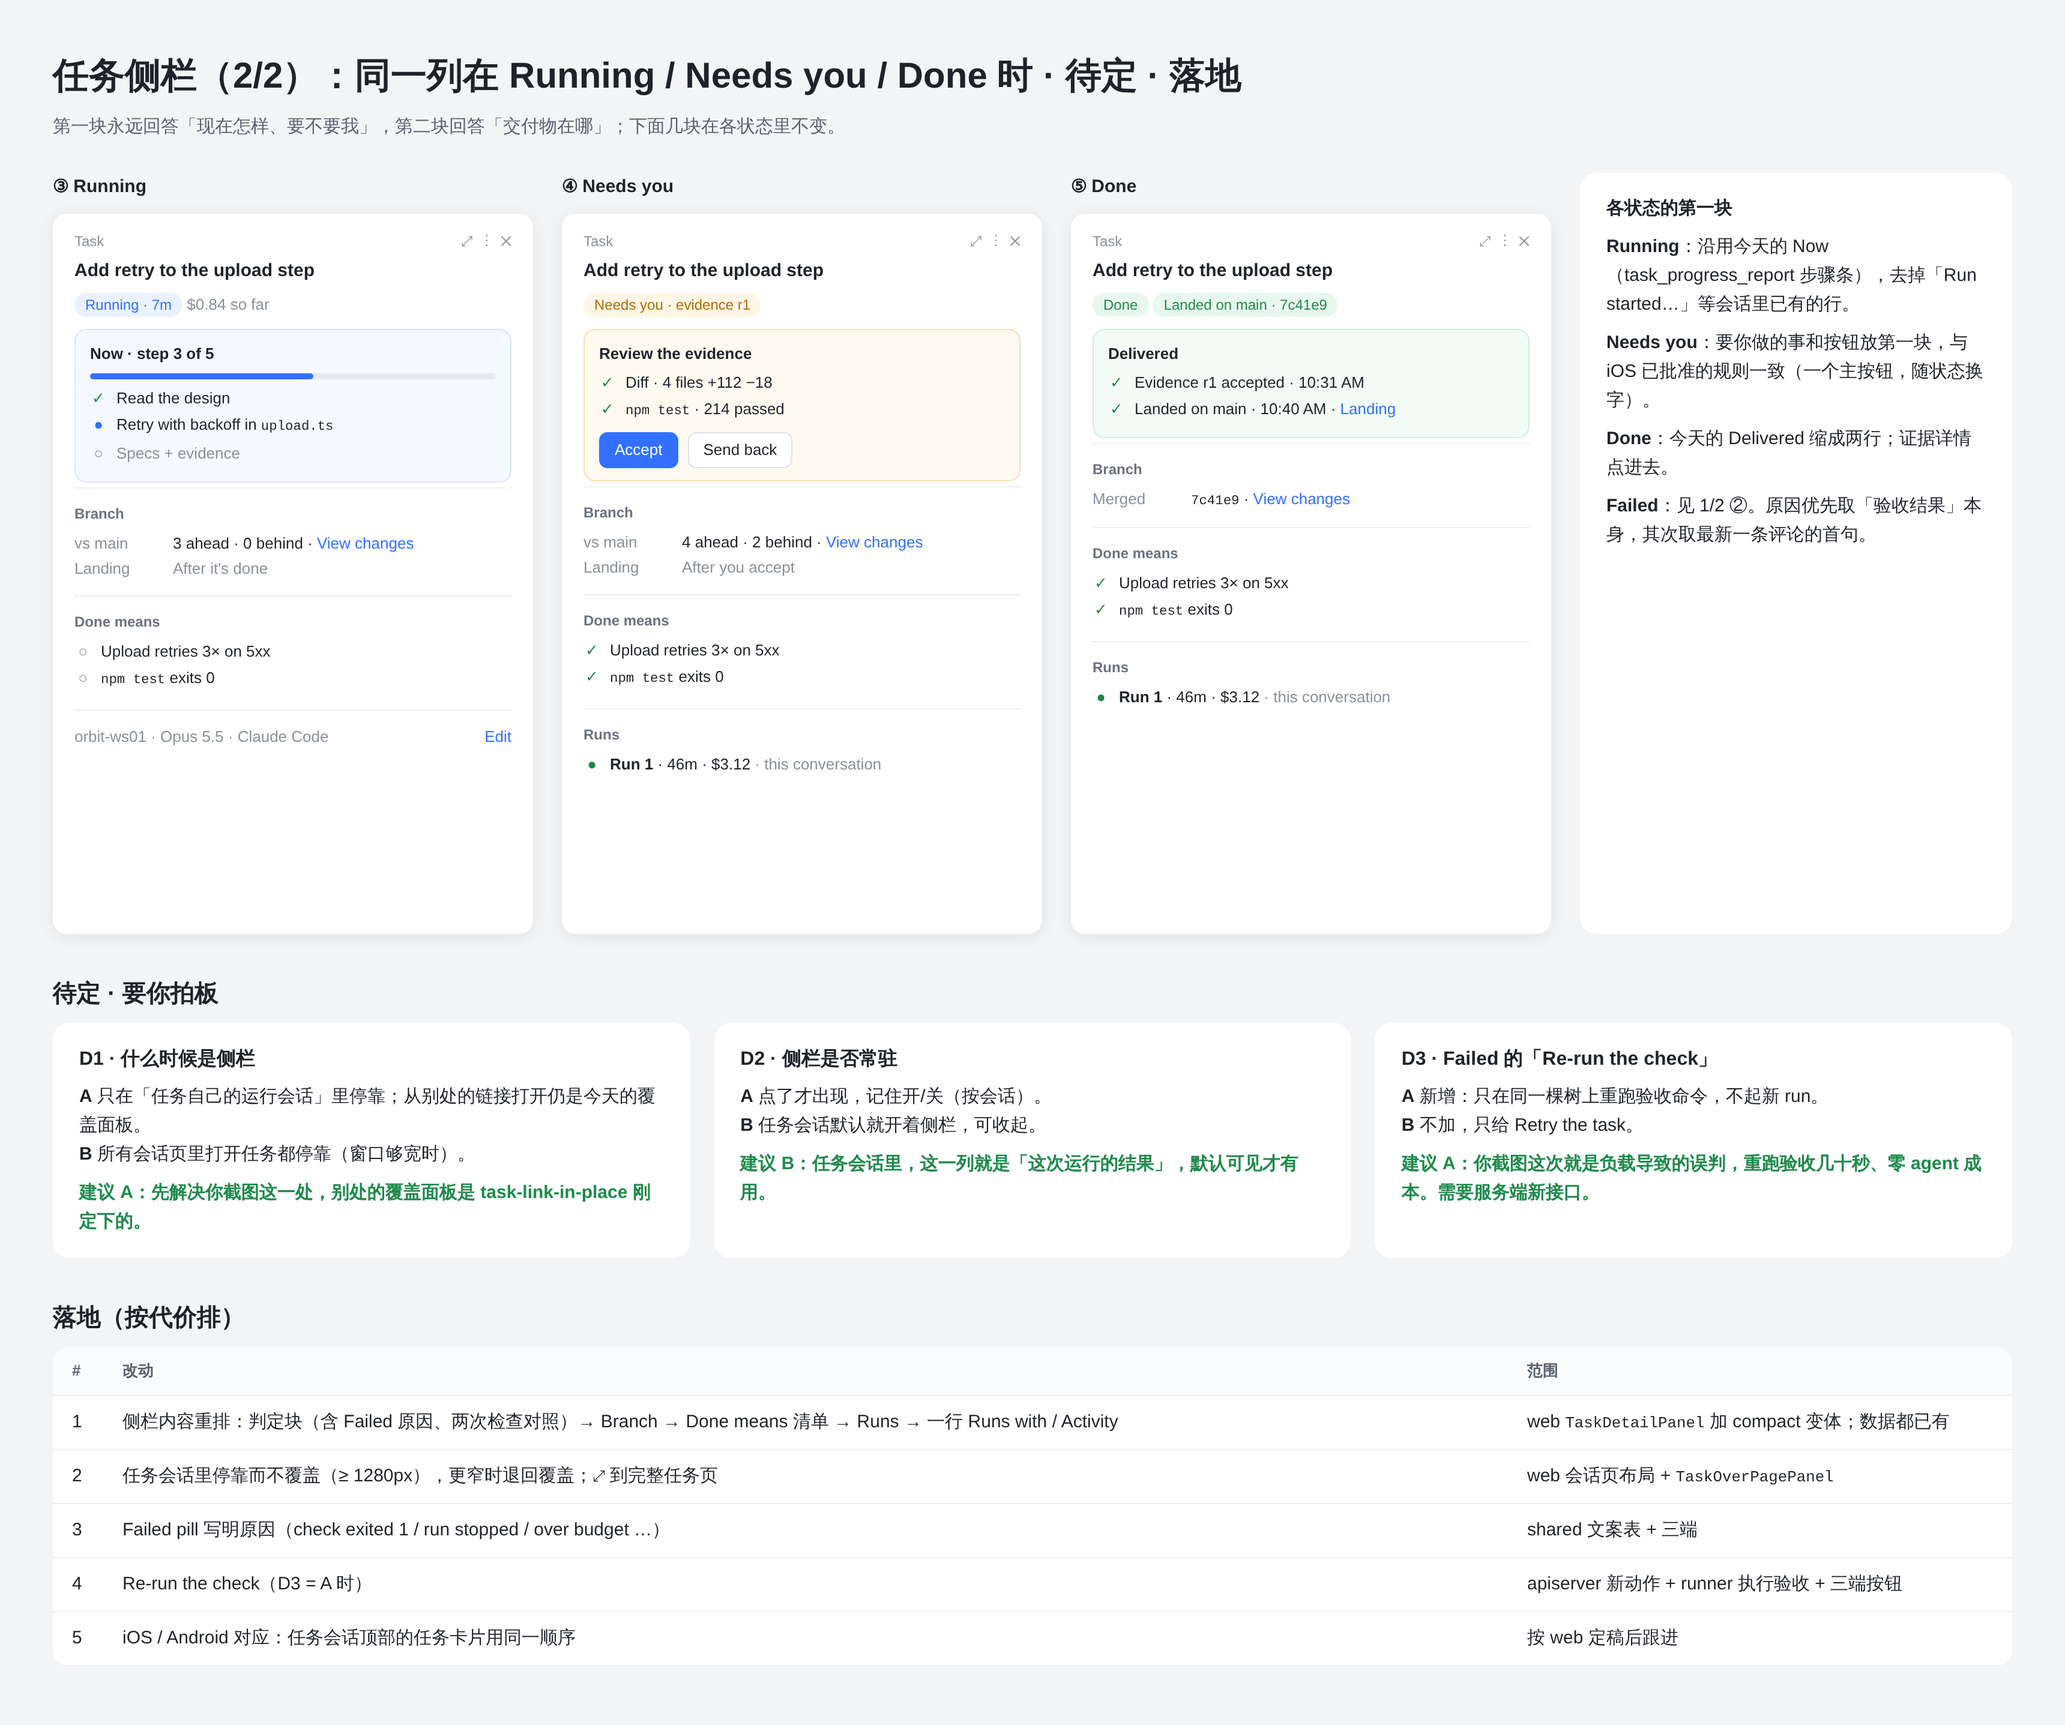
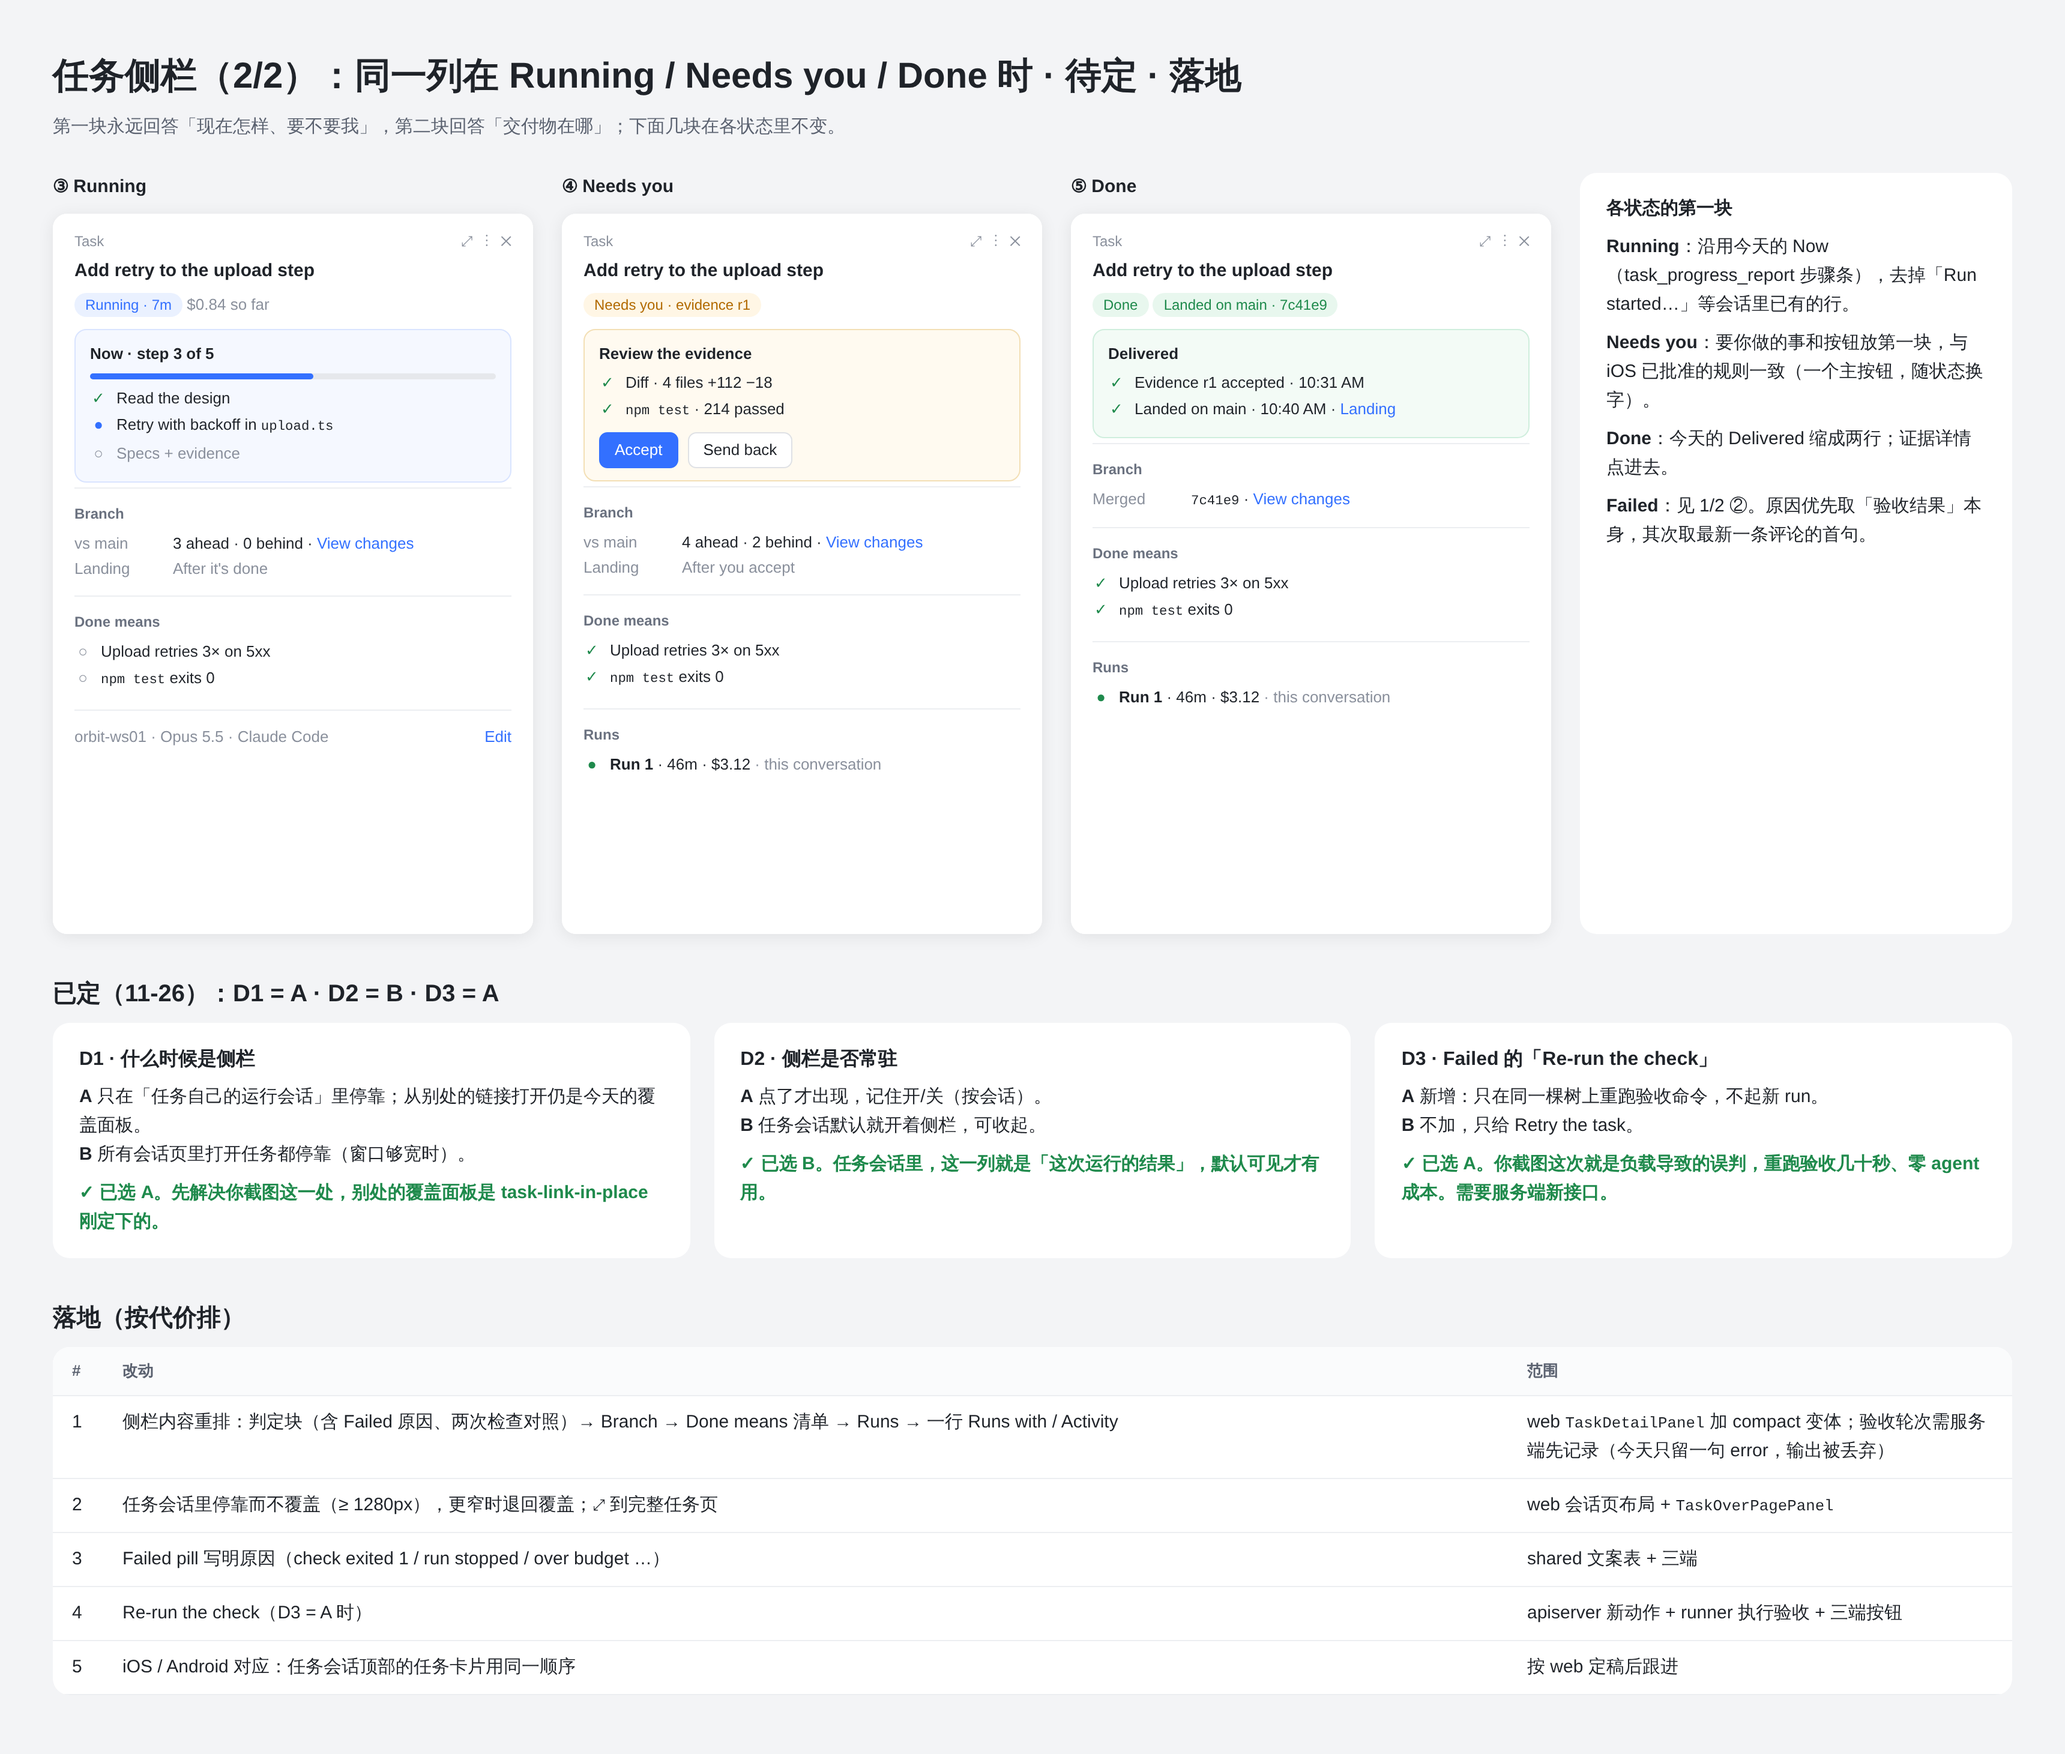
docs: task run sidebar design, with the owner's D1-D3 answers
Records D1 A / D2 B / D3 A, and that acceptance rounds keep no record or output today, so the sidebar's failure block and Re-run the check need server work first. The board drops the agent's own check row, which nothing records.

diff --git a/docs/mocks/task-run-sidebar/01-board.html b/docs/mocks/task-run-sidebar/01-board.html
@@ -162,9 +162,8 @@
 
           <div class="d-verdict red" id="v-fail">
             <h4>Why it failed</h4>
-            <div class="d-line"><span class="ic ok">✓</span><span>Agent's own run of the check · exit 0 · 06:48</span></div>
-            <div class="d-line"><span class="ic bad">✕</span><span>Orbit's acceptance run · exit 1 · 06:53 · <span class="link">Output</span></span></div>
-            <div class="d-line"><span class="ic grey">↳</span><span class="grey">Same tree <code>432e94</code>. Latest note (orbit-ws01, Nov 26): machine load, not the code. <span class="link">Read</span></span></div>
+            <div class="d-line"><span class="ic bad">✕</span><span>Acceptance check · exit 1, expected 0 · 06:53 on <code>432e94</code> · <span class="link">Output</span></span></div>
+            <div class="d-line"><span class="ic grey">↳</span><span class="grey">Latest note (orbit-ws01, Nov 26): machine load, not the code. <span class="link">Read</span></span></div>
             <div class="d-acts"><span class="btn pri">Re-run the check</span><span class="btn">Retry the task</span><span class="btn">Close as not needed</span></div>
           </div>
 
@@ -208,7 +207,7 @@
     <div class="b-note"><span class="b-n">3</span><div><b>「为什么 Failed」埋在 Activity 最底的评论里。</b>状态 pill 只写 Failed；验收命令哪次 exit 1、和 agent 自己那次 exit 0 有何不同，要读完一段长评论才知道。</div></div>
     <div class="b-note"><span class="b-n">4</span><div><b>分支状态完全不在面板上。</b>分支还剩几个提交、比 main 领先/落后、为什么不落地——这些只在会话正文里，面板里看不到。</div></div>
     <div class="b-note"><span class="b-n blue">A</span><div><b>停靠，不覆盖。</b>宽度 ≥ 1280 时侧栏固定 380px 推开会话；更窄时退回今天的覆盖方式。<code>⤢</code> 打开完整任务页（今天的全部内容都还在那里）。</div></div>
-    <div class="b-note"><span class="b-n blue">B</span><div><b>判定放第一块，带下一步。</b>pill 写明「check exited 1」；卡片并排两次检查结果、最新一条说明的一句摘要，以及三个按钮：Re-run the check（只重跑验收，不重跑 agent）/ Retry the task / Close as not needed。</div></div>
+    <div class="b-note"><span class="b-n blue">B</span><div><b>判定放第一块，带下一步。</b>pill 写明「check exited 1」；卡片列出本次 run 的每一轮验收（exit code、时间、所在提交、Output 跳到会话里那一轮的 shell 输出）、最新一条说明的一句摘要，以及三个按钮：Re-run the check（只重跑验收，不重跑 agent）/ Retry the task / Close as not needed。</div></div>
     <div class="b-note"><span class="b-n blue">C</span><div><b>Branch 一块。</b>分支名、相对 main 的 ahead/behind、剩下的提交、Landing 一句话状态。数据来自今天已有的 integration / landing 记录，不新造。</div></div>
     <div class="b-note"><span class="b-n blue">D</span><div><b>Done means 变成检查清单。</b>每条标准一行、带 ✓/✕；全文和 Brief 折叠成一行。Runs 列出每次运行，标出「this conversation」；Runs with 与 Activity 各压成一行。</div></div>
   </div>
@@ -289,23 +288,23 @@
     </div>
   </div>
 
-  <h2 style="margin:34px 0 8px;font-size:20px">待定 · 要你拍板</h2>
+  <h2 style="margin:34px 0 8px;font-size:20px">已定（11-26）：D1 = A · D2 = B · D3 = A</h2>
   <div class="b-ab">
     <div class="b-card"><h4>D1 · 什么时候是侧栏</h4>
       <p style="margin:0"><b>A</b> 只在「任务自己的运行会话」里停靠；从别处的链接打开仍是今天的覆盖面板。<br><b>B</b> 所有会话页里打开任务都停靠（窗口够宽时）。</p>
-      <p class="b-rec" style="margin:8px 0 0">建议 A：先解决你截图这一处，别处的覆盖面板是 task-link-in-place 刚定下的。</p></div>
+      <p class="b-rec" style="margin:8px 0 0">✓ 已选 A。先解决你截图这一处，别处的覆盖面板是 task-link-in-place 刚定下的。</p></div>
     <div class="b-card"><h4>D2 · 侧栏是否常驻</h4>
       <p style="margin:0"><b>A</b> 点了才出现，记住开/关（按会话）。<br><b>B</b> 任务会话默认就开着侧栏，可收起。</p>
-      <p class="b-rec" style="margin:8px 0 0">建议 B：任务会话里，这一列就是「这次运行的结果」，默认可见才有用。</p></div>
+      <p class="b-rec" style="margin:8px 0 0">✓ 已选 B。任务会话里，这一列就是「这次运行的结果」，默认可见才有用。</p></div>
     <div class="b-card"><h4>D3 · Failed 的「Re-run the check」</h4>
       <p style="margin:0"><b>A</b> 新增：只在同一棵树上重跑验收命令，不起新 run。<br><b>B</b> 不加，只给 Retry the task。</p>
-      <p class="b-rec" style="margin:8px 0 0">建议 A：你截图这次就是负载导致的误判，重跑验收几十秒、零 agent 成本。需要服务端新接口。</p></div>
+      <p class="b-rec" style="margin:8px 0 0">✓ 已选 A。你截图这次就是负载导致的误判，重跑验收几十秒、零 agent 成本。需要服务端新接口。</p></div>
   </div>
 
   <h2 style="margin:34px 0 8px;font-size:20px">落地（按代价排）</h2>
   <table class="b-cost">
     <tr><th style="width:42px">#</th><th>改动</th><th style="width:420px">范围</th></tr>
-    <tr><td>1</td><td>侧栏内容重排：判定块（含 Failed 原因、两次检查对照）→ Branch → Done means 清单 → Runs → 一行 Runs with / Activity</td><td>web <code>TaskDetailPanel</code> 加 compact 变体；数据都已有</td></tr>
+    <tr><td>1</td><td>侧栏内容重排：判定块（含 Failed 原因、两次检查对照）→ Branch → Done means 清单 → Runs → 一行 Runs with / Activity</td><td>web <code>TaskDetailPanel</code> 加 compact 变体；验收轮次需服务端先记录（今天只留一句 error，输出被丢弃）</td></tr>
     <tr><td>2</td><td>任务会话里停靠而不覆盖（≥ 1280px），更窄时退回覆盖；<code>⤢</code> 到完整任务页</td><td>web 会话页布局 + <code>TaskOverPagePanel</code></td></tr>
     <tr><td>3</td><td>Failed pill 写明原因（check exited 1 / run stopped / over budget …）</td><td>shared 文案表 + 三端</td></tr>
     <tr><td>4</td><td>Re-run the check（D3 = A 时）</td><td>apiserver 新动作 + runner 执行验收 + 三端按钮</td></tr>

diff --git a/docs/task-run-sidebar-design.md b/docs/task-run-sidebar-design.md
@@ -1,0 +1,84 @@
+# Task run sidebar
+
+Board: `docs/mocks/task-run-sidebar/01-board.html` (PNGs `01-board-1.png`, `01-board-2.png`).
+Owner decisions, 2026-11-26: **D1 = A, D2 = B, D3 = A**.
+
+## Problem
+
+Opening a task from inside its own run conversation lays `TaskOverPagePanel` over the transcript
+(`AppShell.tsx`, `?task=<id>`). The panel covers more than half the window, so every line of the
+conversation is cut off. Its first screen holds what was set up when the task was filed: the
+criteria text, the brief (already the conversation's first message), and the five "Runs with" chips.
+What the reader came for is at the bottom of Activity, in a long comment, if anywhere: why the task
+ended FAILED, what is left on its branch, and what to do next.
+
+## Decisions
+
+- **D1 = A.** The panel docks only in the task's **own run conversation**, meaning a session that is
+  one of the task's runs. Opened from a link anywhere else, the task stays the overlay that
+  `task-link-in-place` settled.
+- **D2 = B.** In a task's own run conversation the sidebar is **open by default**. It can be closed,
+  and the choice is remembered per session.
+- **D3 = A.** A FAILED task whose criterion is EXECUTABLE gets **Re-run the check**: the acceptance
+  command runs again in the same conversation, on the branch as it is now, and no agent turn starts.
+
+## The column
+
+Width 380 px, docked to the right of the conversation, which narrows instead of being covered. Below
+1280 px window width it falls back to today's overlay. Its blocks, top to bottom:
+
+1. **Head.** The title clamped to 2 lines, a status pill that carries its reason (`Failed · check exited 1`),
+   then elapsed time and cost. On the right: `⤢` (full task page), `⋮`, `✕`.
+2. **State block.** What it is now and what it needs from you, in one tinted card:
+   - Running: today's Now (the `task_progress_report` steps).
+   - Needs you: the evidence summary with Accept / Send back.
+   - Done: Delivered, cut to two lines (accepted, landed).
+   - Failed: **Why it failed**, which lists the acceptance rounds of this run (exit code, time, the
+     tree they ran on, and an **Output** link that scrolls the conversation to that round's shell
+     turn). It also shows the first line of the newest comment, and three buttons:
+     **Re-run the check**, **Retry the task**, **Close as not needed**.
+3. **Branch.** Ahead/behind main, the commits still on the branch, and a one-line landing status,
+   read from the task's existing integration/landing record.
+4. **Done means.** One row per criterion with ✓ / ✕ / ○. The criteria text and the brief fold behind `Show`.
+5. **Runs.** One row per run, with the current one marked `this conversation`.
+6. **Runs with** and **Activity**, one line each, expanding in place.
+
+The full task page (`TaskDetailPage`) keeps everything it shows today; the column is a compact
+arrangement of the same panel, not a second component.
+
+## Correction to the board
+
+Board 1 ② shows "Agent's own run of the check · exit 0". Nothing records that: it was the agent's
+claim, written in a comment. The column shows only the acceptance rounds Orbit ran. Before the web
+work starts, the board is redrawn to match.
+
+## Data that does not exist yet
+
+- **Acceptance rounds are not recorded.** `executable-acceptance-round.ts` says so: a round leaves
+  only its reserved shell turn (`system:task-acceptance:v1:<turn>:<expected>`) and, on failure, the
+  session's `error` sentence `acceptance command exited N; expected M`. The runner's
+  `/turn-complete` carries `shellExitCode` and `shellOutput`; the apiserver reads the exit code
+  inside the comparison block and **drops the output**. Wiki: "Failed acceptance command may leave
+  no output in task comments" (34scaKKJ6XmhDMpslzNxl).
+  → Persist, per acceptance shell turn: the exit code, the expected code, the branch SHA it ran on,
+  when it finished, and the clipped, redacted output tail (16 KB, as `IntegrationCheckResult` does).
+  **Constraint:** the comparison block stays one status write with no other database touch
+  (`executable-exit-code-judgment.spec.ts`, by the owner's direction). The round record is written
+  outside that block.
+- **Re-run the check** has no door. Today a round is minted only when an agent turn completes on an
+  OPEN/IN_PROGRESS task (`awaitsExecutableAcceptance`).
+  → A new owner action on a FAILED EXECUTABLE task. It moves the task back to a pending state and
+  queues one acceptance shell turn on the task's latest run session, keyed so that one press queues
+  exactly one round. The round then settles through the existing comparison. It needs a runner
+  online for that session's workspace; if there is none, the button says so rather than queueing silently.
+- **The reason on the Failed pill** comes from the session's run outcome. It needs a shared copy table:
+  check exited N / run stopped / over budget / runner lost, and so on.
+
+## Build order
+
+1. Server: acceptance round record and its read (task detail lists rounds per run). Covered by a pg spec.
+2. Server and runner: Re-run the check, with idempotent queueing and a pg spec for FAILED → round → DONE/FAILED.
+3. Shared: failure-reason copy table for the pill.
+4. Web: the compact column (blocks above), docked in the task's own run conversation and open by
+   default; `⤢` opens the full page; overlay below 1280 px.
+5. iOS / Android: the task card at the top of a task's run conversation uses the same order, after the web version is signed off.
